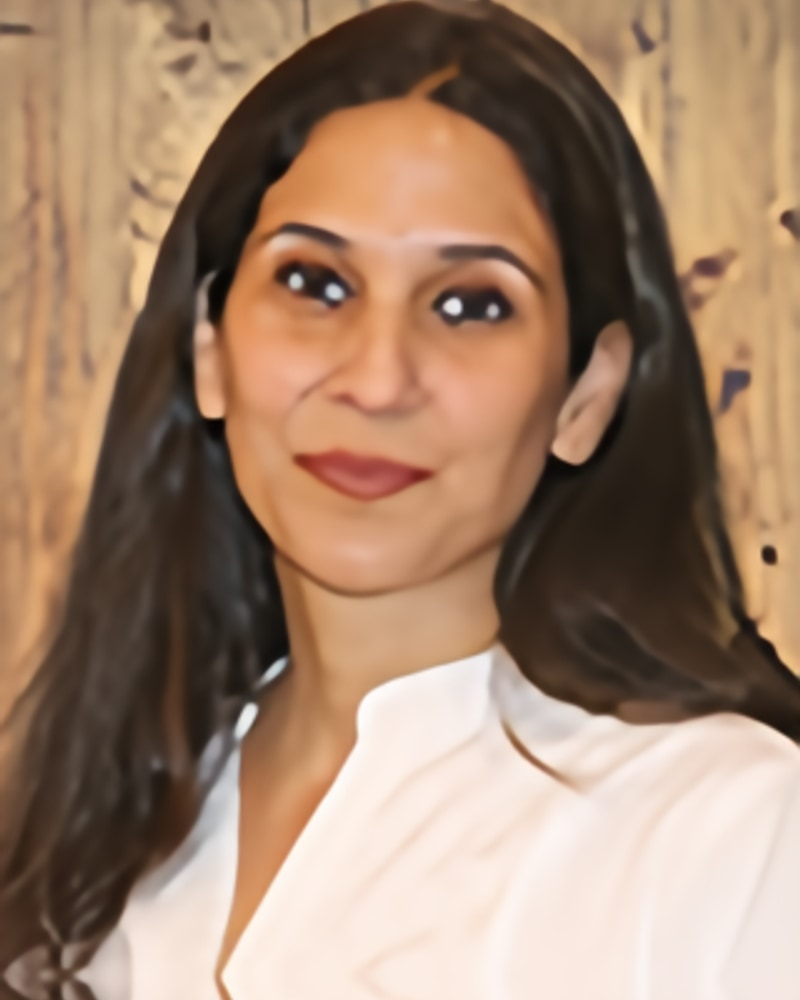
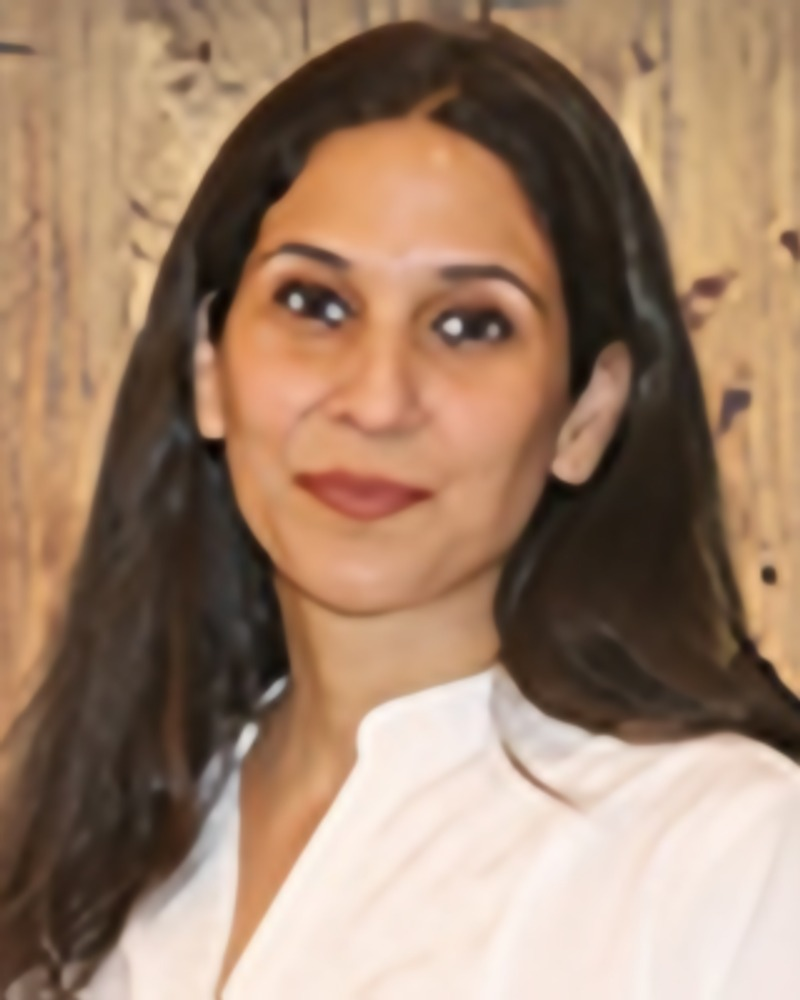
fix: feedback round - Newsreader serif, no sources, equal faculty cards (#14)
- Serif face: Newsreader replaces Instrument Serif for body, roles,
  captions and italics. --serif-ch re-measured (0.5665em); the custom
  Liberation/Noto fallbacks were fitted to Instrument Serif, so they go.
- The lecture-hall session photo is DevGrowth's, not Code Club's.
- Faculty cards are the same size as everyone else's.
- Glimpses: no source list or citation marks; 'receipts' heading replaced.
- Dr. Sunanda's photo: the upscale blended with a plain resize, so it
  reads as a photograph rather than a painting.

diff --git a/ananta-site/app/glimpses/page.tsx b/ananta-site/app/glimpses/page.tsx
@@ -5,22 +5,13 @@ import { Cutout } from '@/components/Cutout';
 import { CircuitRule, Eyebrow, Strip } from '@/components/Marks';
 import styles from './page.module.css';
 import { EVENT } from '@/content/event';
-import { CLUBS, RECORDS, SOURCES, type SourceId } from '@/content/glimpses';
+import { CLUBS, RECORDS } from '@/content/glimpses';
 
 export const metadata: Metadata = {
   title: 'Glimpses',
   description: `What SANGAM, DevGrowth, Code Club, NULL and the AI & ML Club have already run and won at SMVDU, before ${EVENT.name}.`,
   alternates: { canonical: '/glimpses' },
 };
-
-/** Sources are numbered in the order they first appear on the page. */
-const ORDER: SourceId[] = [];
-const cite = (id: SourceId) => {
-  if (!ORDER.includes(id)) ORDER.push(id);
-  return ORDER.indexOf(id) + 1;
-};
-RECORDS.forEach((r) => cite(r.source));
-CLUBS.forEach((c) => c.events.forEach((e) => cite(e.source)));
 
 /** Deterministic tilts, so the paste-up does not reshuffle on every build. */
 const TILTS = [-1.8, 1.4, -2.4, 2.1, -1.2];
@@ -32,16 +23,6 @@ const CLUB_CLASS: Record<string, string> = {
   null: styles.null,
   aiml: styles.aiml,
 };
-
-function Cite({ id }: { id: SourceId }) {
-  const n = cite(id);
-  return (
-    <a href={`#source-${n}`} className={styles.cite}>
-      <span className="visually-hidden">Source </span>
-      {n}
-    </a>
-  );
-}
 
 export default function Glimpses() {
   return (
@@ -55,15 +36,15 @@ export default function Glimpses() {
             <em>there was this.</em>
           </>
         }
-        lead="Workshops, bootcamps, hackathons and wins from the five clubs behind the event. Every figure links to where it came from."
+        lead="Workshops, bootcamps, hackathons and wins from the five clubs behind the event."
       />
 
       {/* ------------------------------------------------------ the record */}
       <section className="section" aria-labelledby="record-title">
         <div className="shell">
-          <Eyebrow>On the record</Eyebrow>
+          <Eyebrow>So far</Eyebrow>
           <h2 id="record-title" className={styles.recordTitle}>
-            Numbers with <em>receipts.</em>
+            The year, <em>in numbers.</em>
           </h2>
 
           <ul className={styles.records}>
@@ -71,9 +52,7 @@ export default function Glimpses() {
               <li key={r.line} className={`${styles.record} ${CLUB_CLASS[r.club]}`}>
                 <p className={styles.figure}>{r.figure}</p>
                 <p className={styles.recordLine}>{r.line}</p>
-                <p className={styles.recordDetail}>
-                  {r.detail} <Cite id={r.source} />
-                </p>
+                <p className={styles.recordDetail}>{r.detail}</p>
               </li>
             ))}
           </ul>
@@ -108,9 +87,7 @@ export default function Glimpses() {
                 <ul className={styles.events}>
                   {club.events.map((e) => (
                     <li key={e.name} className={styles.event}>
-                      <span className={styles.eventName}>
-                        {e.name} <Cite id={e.source} />
-                      </span>
+                      <span className={styles.eventName}>{e.name}</span>
                       {(e.when || e.note) && (
                         <span className={styles.eventMeta}>
                           {e.when && <span className={styles.when}>{e.when}</span>}
@@ -138,38 +115,6 @@ export default function Glimpses() {
           </div>
         </section>
       ))}
-
-      {/* -------------------------------------------------------- sources */}
-      <section className={`section ${styles.sources}`} aria-labelledby="sources-title">
-        <div className="shell">
-          <Eyebrow>Sources</Eyebrow>
-          <h2 id="sources-title" className="visually-hidden">
-            Sources
-          </h2>
-          <ol className={styles.sourceList}>
-            {ORDER.map((id, i) => {
-              const s = SOURCES[id];
-              return (
-                <li key={id} id={`source-${i + 1}`}>
-                  {s.href ? (
-                    <a
-                      href={s.href}
-                      className={styles.sourceLink}
-                      target="_blank"
-                      rel="noopener noreferrer"
-                    >
-                      {s.label}
-                      <span className="visually-hidden"> (opens in a new tab)</span>
-                    </a>
-                  ) : (
-                    s.label
-                  )}
-                </li>
-              );
-            })}
-          </ol>
-        </div>
-      </section>
 
       {/* ---------------------------------------------------------- the ask */}
       <section className={`section ${styles.ask} on-dark`} aria-labelledby="ask-title">

diff --git a/ananta-site/app/globals.css b/ananta-site/app/globals.css
@@ -51,63 +51,6 @@
   font-style: normal;
 }
 
-/* --------------------------------------------------- serif font fallbacks */
-
-/*
- * next/font matches Instrument Serif against local('Times New Roman') only,
- * which Linux and Android do not have, so there the fallback was the generic
- * serif at its natural size and prose rewrapped when the real face landed
- * (0.025 CLS on /journey). These cover those platforms. app/fonts.ts lists
- * them straight after next's own fallback.
- *
- * Liberation Serif and Tinos are metric-compatible with Times New Roman; Noto
- * Serif is Android's serif. size-adjust is the real face's width over the
- * fallback's across the site's own prose, measured separately for the italic,
- * which runs ~6% wider. The real face is 0.99/0.31 ascent/descent, and
- * size-adjust scales the overrides, so each is that divided by size-adjust.
- */
-@font-face {
-  font-family: 'SerifFallbackTimes';
-  src: local('Liberation Serif'), local('LiberationSerif'), local('Tinos');
-  size-adjust: 83.17%;
-  ascent-override: 119.03%;
-  descent-override: 37.27%;
-  line-gap-override: 0%;
-  font-style: normal;
-}
-
-@font-face {
-  font-family: 'SerifFallbackTimes';
-  src:
-    local('Liberation Serif Italic'), local('LiberationSerif-Italic'),
-    local('Tinos Italic');
-  size-adjust: 87.95%;
-  ascent-override: 112.56%;
-  descent-override: 35.25%;
-  line-gap-override: 0%;
-  font-style: italic;
-}
-
-@font-face {
-  font-family: 'SerifFallbackNoto';
-  src: local('Noto Serif'), local('NotoSerif-Regular');
-  size-adjust: 70.51%;
-  ascent-override: 140.4%;
-  descent-override: 43.97%;
-  line-gap-override: 0%;
-  font-style: normal;
-}
-
-@font-face {
-  font-family: 'SerifFallbackNoto';
-  src: local('Noto Serif Italic'), local('NotoSerif-Italic');
-  size-adjust: 76.64%;
-  ascent-override: 129.18%;
-  descent-override: 40.45%;
-  line-gap-override: 0%;
-  font-style: italic;
-}
-
 /* ---------------------------------------------------------------- tokens */
 
 :root {
@@ -176,11 +119,11 @@
    */
   --display-ch: 0.465em;
   /*
-   * The same for prose. Instrument Serif's "0" is 0.4597em; the Liberation Serif
+   * The same for prose. Newsreader's "0" is 0.5665em; the Liberation Serif
    * fallback's is wider, so a 54ch cap that clears a 371px column in the real
    * face bound it in the fallback and added a line until the swap.
    */
-  --serif-ch: 0.4597em;
+  --serif-ch: 0.5665em;
 
   /* Fluid scale. Minimum is the 360px value, so the primary layout is the
    * floor rather than a squeezed-down desktop. */

diff --git a/ananta-site/app/fonts.ts b/ananta-site/app/fonts.ts
@@ -5,7 +5,7 @@
  *
  * All four are SIL Open Font License. See assets/CREDITS.md.
  */
-import { Instrument_Serif, DM_Mono, Rozha_One } from 'next/font/google';
+import { Newsreader, DM_Mono, Rozha_One } from 'next/font/google';
 import localFont from 'next/font/local';
 
 /**
@@ -44,21 +44,13 @@ export const display = localFont({
 });
 
 /** Prose and pull lines, including the italic the poster uses for emphasis. */
-export const serif = Instrument_Serif({
+export const serif = Newsreader({
   subsets: ['latin'],
   weight: '400',
   style: ['normal', 'italic'],
   display: 'swap',
   variable: '--font-serif',
-  // next's generated fallback is Times New Roman only; the two metric-matched
-  // faces after it cover Linux and Android. See globals.css.
-  fallback: [
-    'SerifFallbackTimes',
-    'SerifFallbackNoto',
-    'Georgia',
-    'Times New Roman',
-    'serif',
-  ],
+  fallback: ['Georgia', 'Times New Roman', 'serif'],
   adjustFontFallback: true,
   // See the note on `display` below: only the display face is preloaded.
   preload: false,

diff --git a/ananta-site/content/glimpses.ts b/ananta-site/content/glimpses.ts
@@ -206,7 +206,13 @@ export const CLUBS: ClubStory[] = [
         source: 'smvdu-imc',
       },
     ],
-    photos: ['imc-2024', 'linux-git-26', 'avalanche-25', 'pyverse-hands', 'codeforge-25'],
+    photos: [
+      'codeclub-session',
+      'imc-2024',
+      'linux-git-26',
+      'pyverse-hands',
+      'codeforge-25',
+    ],
   },
   {
     id: 'codeclub',
@@ -232,7 +238,7 @@ export const CLUBS: ClubStory[] = [
         source: 'smvdu-codeclub',
       },
     ],
-    photos: ['codeclub-session', 'battle-code', 'ai-stack'],
+    photos: ['battle-code', 'ai-stack'],
   },
   {
     id: 'null',

diff --git a/ananta-site/content/photos.ts b/ananta-site/content/photos.ts
@@ -131,9 +131,9 @@ export const PHOTOS: Record<string, Photo> = {
   },
   'codeclub-session': {
     slug: 'codeclub-session',
-    caption: 'A Code Club session in the lecture hall.',
-    alt: 'A packed lecture hall during a Code Club session, a speaker at the front.',
-    club: 'codeclub',
+    caption: 'A DevGrowth session in the lecture hall.',
+    alt: 'A packed lecture hall during a DevGrowth session, a speaker at the front.',
+    club: 'devgrowth',
   },
   'null-ethical-hacking': {
     slug: 'null-ethical-hacking',

diff --git a/ananta-site/content/team.ts b/ananta-site/content/team.ts
@@ -45,7 +45,6 @@ export const GROUPS: TeamGroup[] = [
     title: 'Faculty',
     blurb: 'SoCSE, SoECE and SoME, SMVDU.',
     club: 'smvdu',
-    featured: true,
   },
   {
     id: 'organising-core',
